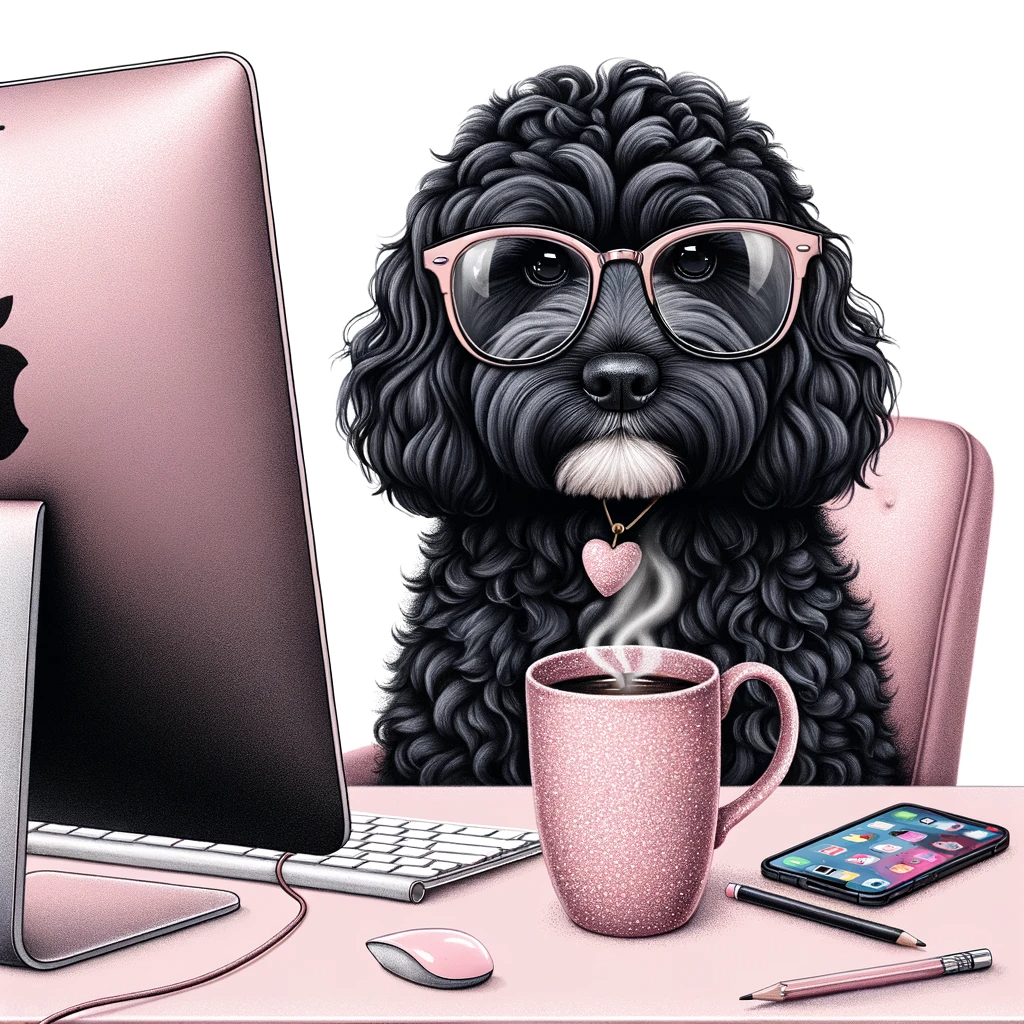
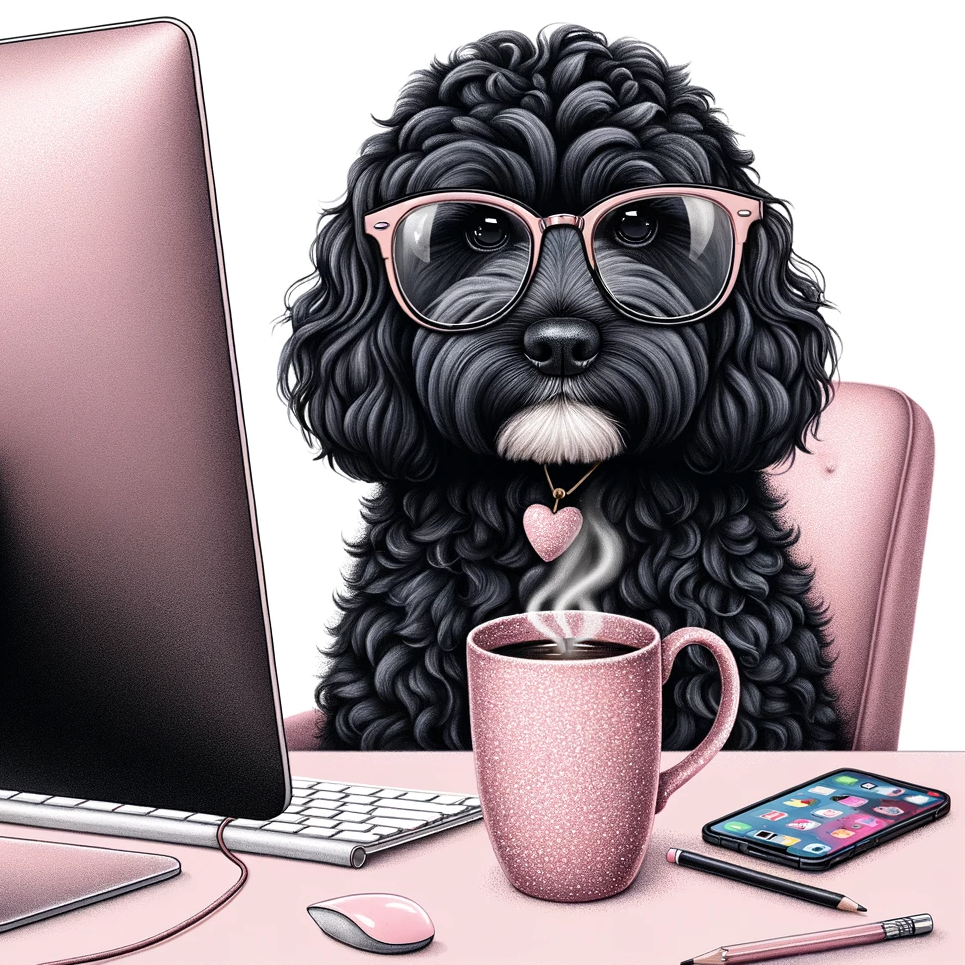
Some more adjustments to the top part. It's a mess, lol.

diff --git a/styles/styles.css b/styles/styles.css
@@ -74,9 +74,16 @@
 
 /* */ /* */ /* */ /* */ /* Font Family Variables */ /* */ /* */ /* */ /* */
 :root {
-  --large-heading-text: "Square Peg", serif;
+  --large-heading-text: "Playfair Display", serif;
   --heading-text: "Merriweather", serif;
   --paragraph-text: "Manrope", sans-serif;
+  --italiana: "Italiana", serif;
+  --sedan: "Sedan", serif;
+  --libre-bask: "Libre Baskerville", serif;
+  --libre-frank: "Libre Franklin", sans-serif;
+  --playfair: "Playfair", serif;
+  --thasadith: "Thasadith", sans-serif;
+  --alice: "Alice", serif;
 }
 
 /* */ /* */ /* */ /* */ /* Shadow Variables */ /* */ /* */ /* */ /* */
@@ -563,11 +570,11 @@ video {
   display: flex;
   align-items: center;
   justify-content: center;
-  letter-spacing: 0.25rem;
+  letter-spacing: 0.15rem;
   padding: 0 0.5rem;
-  font-family: var(--heading-text);
-  font-size: clamp(0.9rem, 4vw, 1.25rem);
-  font-weight: 500;
+  font-family: var(--libre-frank);
+  font-size: clamp(0.9rem, 2vw, 1.15rem);
+  font-weight: 400;
 }
 
 .main-navigation ul {
@@ -579,7 +586,6 @@ video {
 .main-navigation li {
   list-style: none;
   display: inline-block;
-  text-shadow: var(--nav-text-shadow);
 }
 
 .main-navigation li:not(:last-child)::after {
@@ -769,9 +775,9 @@ video {
 
 .index-page-header h1 {
   scroll-margin-top: 5rem;
-  font-family: var(--large-heading-text);
+  font-family: var(--alice);
   color: var(--bright-pink);
-  font-size: clamp(6rem, 10vw, 10rem);
+  font-size: clamp(3rem, 6vw, 6rem);
   margin: 0 auto;
   padding-top: 12rem;
   text-shadow: var(--text-shadow3);
@@ -794,11 +800,11 @@ video {
   display: block;
   width: 100%;
   text-align: center;
-  font-family: var(--paragraph-text);
+  font-family: var(--libre-frank);
   letter-spacing: 0.5rem;
   color: var(--black-ish);
-  font-weight: 600;
-  font-size: clamp(1.25rem, 3vw, 3rem);
+  font-weight: 300;
+  font-size: clamp(1.25rem, 2vw, 2rem);
   line-height: 2rem;
   max-width: 100%;
 }
@@ -880,9 +886,6 @@ video {
     margin-top: 8rem;
   }
   .index-page-header h2 {
-    letter-spacing: 1rem;
-    font-weight: 600;
-    text-shadow: 1px 1px 0px var(--black);
     padding: 2rem;
   }
   .arrows {

diff --git a/styles/_home.scss b/styles/_home.scss
@@ -16,9 +16,9 @@
 
 .index-page-header h1 {
     scroll-margin-top: 5rem;
-    font-family: var(--large-heading-text);
+    font-family: var(--alice);
     color: var(--bright-pink);
-    font-size: clamp(6rem, 10vw, 10rem);
+    font-size: clamp(3rem, 6vw, 6rem);
     margin: 0 auto;
     padding-top: 12rem;
     text-shadow: var(--text-shadow3);
@@ -42,11 +42,11 @@
     display: block;
     width: 100%;
     text-align: center;
-    font-family: var(--paragraph-text);
+    font-family: var(--libre-frank);
     letter-spacing: 0.5rem;
     color: var(--black-ish);
-    font-weight: 600;
-    font-size: clamp(1.25rem, 3vw, 3rem);
+    font-weight: 300;
+    font-size: clamp(1.25rem, 2vw, 2rem);
     line-height: 2rem;
     max-width: 100%;
 }
@@ -147,9 +147,6 @@
         margin-top: 8rem;
     }
     .index-page-header h2 {
-        letter-spacing: 1rem;
-        font-weight: 600;
-        text-shadow: 1px 1px 0px var(--black);
         padding: 2rem;
     }
 

diff --git a/styles/_variables.scss b/styles/_variables.scss
@@ -74,9 +74,16 @@
 
 /* */ /* */ /* */ /* */ /* Font Family Variables */ /* */ /* */ /* */ /* */
 :root {
-    --large-heading-text: "Square Peg", serif;
+    --large-heading-text: "Playfair Display", serif;
     --heading-text: "Merriweather", serif;
     --paragraph-text: "Manrope", sans-serif;
+    --italiana: "Italiana", serif;
+    --sedan: "Sedan", serif;
+    --libre-bask: "Libre Baskerville", serif;
+    --libre-frank: "Libre Franklin", sans-serif;
+    --playfair: "Playfair", serif;
+    --thasadith: "Thasadith", sans-serif;
+    --alice: "Alice", serif;
 }
 
 /* */ /* */ /* */ /* */ /* Shadow Variables */ /* */ /* */ /* */ /* */

diff --git a/styles/_site-header.scss b/styles/_site-header.scss
@@ -27,11 +27,11 @@
     display: flex;
     align-items: center;
     justify-content: center;
-    letter-spacing: 0.25rem;
+    letter-spacing: 0.15rem;
     padding: 0 0.5rem;
-    font-family: var(--heading-text);
-    font-size: clamp(0.9rem, 4vw, 1.25rem);
-    font-weight: 500;
+    font-family: var(--libre-frank);
+    font-size: clamp(0.9rem, 2vw, 1.15rem);
+    font-weight: 400;
 }
 
 .main-navigation ul {
@@ -43,7 +43,6 @@
 .main-navigation li {
     list-style: none;
     display: inline-block;
-    text-shadow: var(--nav-text-shadow);
 }
 
 .main-navigation li:not(:last-child)::after {

diff --git a/head.php b/head.php
@@ -21,11 +21,9 @@
     <meta name="theme-color" content="#ffffff" />
 
     <!-- Google Fonts -->
-    <link rel="preconnect" href="https://fonts.googleapis.com" />
-    <link rel="preconnect" href="https://fonts.gstatic.com" crossorigin />
-    <link
-        href="https://fonts.googleapis.com/css2?family=Manrope:wght@200..800&family=Merriweather:ital,wght@0,300;0,400;0,700;0,900;1,300;1,400;1,700;1,900&family=Square+Peg&display=swap"
-        rel="stylesheet" />
+    <link rel="preconnect" href="https://fonts.googleapis.com">
+    <link rel="preconnect" href="https://fonts.gstatic.com" crossorigin>
+    <link href="https://fonts.googleapis.com/css2?family=Alice&family=Arima:wght@100..700&family=Averia+Serif+Libre:ital,wght@0,300;0,400;0,700;1,300;1,400;1,700&family=EB+Garamond:ital,wght@0,400..800;1,400..800&family=Gabriela&family=Gilda+Display&family=Italiana&family=Kurale&family=Libre+Baskerville:ital,wght@0,400;0,700;1,400&family=Libre+Caslon+Display&family=Libre+Caslon+Text:ital,wght@0,400;0,700;1,400&family=Libre+Franklin:ital,wght@0,100..900;1,100..900&family=Licorice&family=Merriweather:ital,wght@0,300;0,400;0,700;0,900;1,300;1,400;1,700;1,900&family=MonteCarlo&family=Montez&family=Noto+Serif+Display:ital,wght@0,100..900;1,100..900&family=Old+Standard+TT:ital,wght@0,400;0,700;1,400&family=Playfair+Display:ital,wght@0,400..900;1,400..900&family=Playfair:ital,opsz,wght@0,5..1200,300..900;1,5..1200,300..900&family=Poppins:ital,wght@0,100;0,200;0,300;0,400;0,500;0,600;0,700;0,800;0,900;1,100;1,200;1,300;1,400;1,500;1,600;1,700;1,800;1,900&family=Prata&family=Quando&family=Rosarivo:ital@0;1&family=Rouge+Script&family=Sedan:ital@0;1&family=Shadows+Into+Light&family=Shadows+Into+Light+Two&family=Square+Peg&family=Thasadith:ital,wght@0,400;0,700;1,400;1,700&display=swap" rel="stylesheet">
 
     <link rel="stylesheet" href="styles/styles.css" type="text/css" />
     <link rel="stylesheet" href="node_modules/aos/dist/aos.css" />

diff --git a/index.php b/index.php
@@ -21,7 +21,7 @@ error_reporting(E_ALL);
                         <header class="index-page-header">
                             <div class="animation" data-aos="fade-up" data-aos-delay="400">
                                 <h1>Kassandra Haftner</h1>
-                                <h2>Web Developer.</h2>
+                                <h2>Freelance Web Developer.</h2>
                             </div>
                         </header>
                     </div>
@@ -42,7 +42,7 @@ error_reporting(E_ALL);
                 </section>
         </div>
 
-        <section class="below-fold-content shapedividers_com-986" id="below-fold-content">
+        <section class="below-fold-content" id="below-fold-content">
 
             <div class="intro-message">
                 <h2 data-aos="zoom-in-right" data-aos-delay="200">Welcome.</h2>
@@ -66,7 +66,7 @@ error_reporting(E_ALL);
             </div>
 
             <div class="bottom-img-wrapper">
-                <img src="images/portfolio-drawing.png" alt="A cartoon drawing of myself" loading="lazy" data-aos="zoom-in-left" data-aos-delay="200" />
+                <img src="images/abby-computer.png" alt="A dog sitting at a computer with a cup of coffee" loading="lazy" data-aos="zoom-in-left" data-aos-delay="200" />
             </div>
 
         </section>
